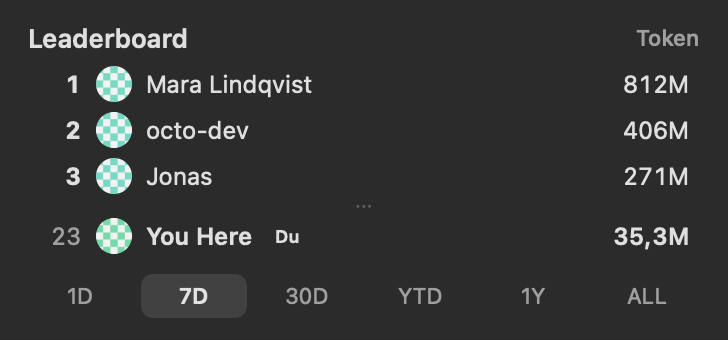
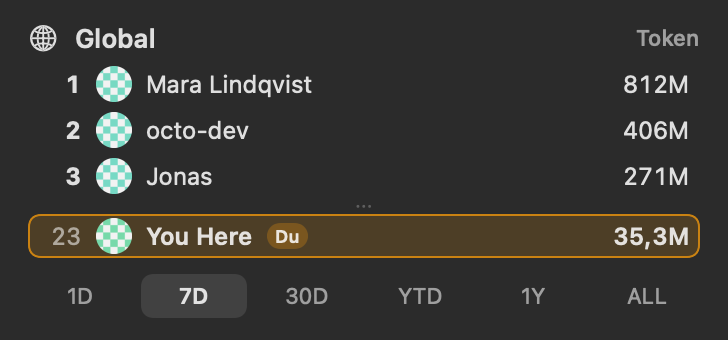
1.0.2 (build 32): the leaderboard widget calls the global board "Global"
Valentin (after the fix in build 31 let him switch again): the title switched between "Leaderboard" and "BUNDB";
the widget already says it is a leaderboard, so the global board is now "Global" with a globe, as in the
leaderboard window's picker (string and German already in the catalog). Not joined keeps "Leaderboard": there the
title says what the widget is. Website desk picture re-rendered (EN/DE, same state). Build 32 because build 31 is a
local test build on Valentin's Mac. preflight swift green.

Changed region(s): [[0.0302, 0.6176, 0.967, 0.7647], [0.0302, 0.0588, 0.272, 0.1471]]

diff --git a/app/Shared/LeaderboardWidgetView.swift b/app/Shared/LeaderboardWidgetView.swift
@@ -60,7 +60,8 @@ struct LeaderboardWidgetView: View {
             if let name = data?.group(group)?.name {
                 Label { Text(verbatim: name) } icon: { Image(systemName: "person.2.fill") }
             } else {
-                Text("Leaderboard")
+                // the widget already says it is a leaderboard; the title names the board, as in the window's picker
+                Label { Text("Global") } icon: { Image(systemName: "globe") }
             }
             if canSwitch {
                 Image(systemName: "arrow.left.arrow.right")

diff --git a/docs/release-notes/1.0.2.md b/docs/release-notes/1.0.2.md
@@ -1,1 +1,2 @@
 - Fixes a leaderboard widget that stopped responding to clicks and stopped showing new group members. Old copies of TokenMaccer (in the Trash, on the disk image, from earlier versions) were still registered with macOS and got in the way. TokenMaccer now unregisters them at every launch from the Applications folder and reloads its widgets. No files are deleted.
+- The leaderboard widget names the global board "Global" (with a globe), next to your groups.
